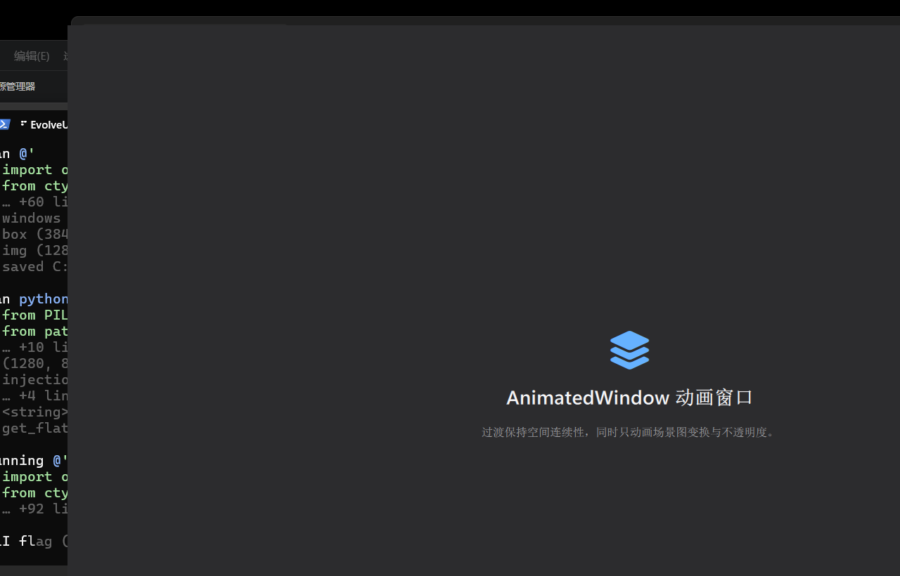
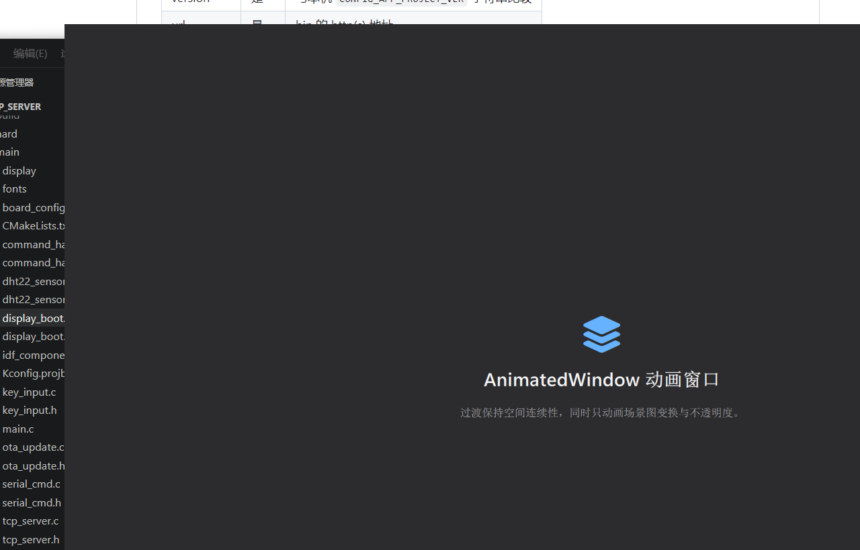
docs: recapture animated window from real launcher button
Scroll to the demo section and morph from Open animated window, not
the title bar; add panel still plus corrected GIF to README.

Changed region(s): [[0.0, 0.1545, 0.0907, 0.9891], [0.0, 0.0, 1.0, 0.0927], [0.786, 0.68, 0.8163, 0.7109]]

diff --git a/Main.qml b/Main.qml
@@ -1303,19 +1303,31 @@ ApplicationWindow {
     }
 
 
+    function scrollToAnimatedWindowSection() {
+        const maxY = Math.max(0, contentFlickable.contentHeight - contentFlickable.height)
+        // Section sits below charts/widgets; ~0.70 keeps triggers + params on screen.
+        contentFlickable.contentY = Math.min(maxY, Math.max(0, maxY * 0.70))
+    }
+
     Timer {
         id: autoAnimatedDemoTimer
-        interval: 900
+        interval: 600
         repeat: false
         running: root.autoAnimatedDemo && root.currentPageReady
         onTriggered: {
-            root.openAnimatedDemo(titleBar, {
-                duration: 320,
-                contentDelayFactor: 0.28,
-                contentDurationFactor: 0.72,
-                closeDurationFactor: 0.68,
-                contentOffset: 10
-            })
+            root.scrollToAnimatedWindowSection()
+            autoAnimatedOpenTimer.start()
+        }
+    }
+
+    Timer {
+        id: autoAnimatedOpenTimer
+        interval: 700
+        repeat: false
+        onTriggered: {
+            const loader = root.pageLoaderAt(root.currentIndex)
+            if (loader && loader.item && loader.item.demoOpenAnimatedWindow)
+                loader.item.demoOpenAnimatedWindow()
         }
     }
 

diff --git a/pages/OtherComponents.qml b/pages/OtherComponents.qml
@@ -100,6 +100,13 @@ ColumnLayout {
                  + (variantLabel ? " · " + variantLabel : ""));
     }
 
+    // Used by the shell auto-demo / README capture: morph from the real launcher.
+    function demoOpenAnimatedWindow() {
+        root.launchAnimatedWindow(
+                    animatedWindowLauncher,
+                    root.theme.localized("Standard", "标准按钮"));
+    }
+
     function resetAnimationParameters() {
         root.animationDuration = 320;
         root.contentDelayPercent = 28;

diff --git a/readme.md b/readme.md
@@ -46,14 +46,18 @@
 
 ### 动画窗口（共享元素过渡）
 
-调节时长、内容延迟 / 淡入、关闭时长与位移，从触发按钮 morph 到全屏动画窗口（只改 transform / opacity）。
+左侧触发按钮（含不同圆角方块）+ 右侧可调参数（时长 / 延迟 / 淡入 / 关闭 / 位移）。点击后从按钮 morph 到全屏窗口，动画只改 transform、颜色与不透明度。
+
+**参数面板**
 
 <p align="center">
-  <img src="preview/readme-animated-window.gif" width="86%" alt="动画窗口演示" />
+  <img src="preview/readme-animated-panel.png" width="88%" alt="动画窗口参数面板" />
 </p>
 
+**开窗过渡**
+
 <p align="center">
-  <img src="preview/readme-animated-window.png" width="70%" alt="动画窗口静态帧" />
+  <img src="preview/readme-animated-window.gif" width="88%" alt="动画窗口开窗 GIF" />
 </p>
 
 ### 检查器 · 窄屏